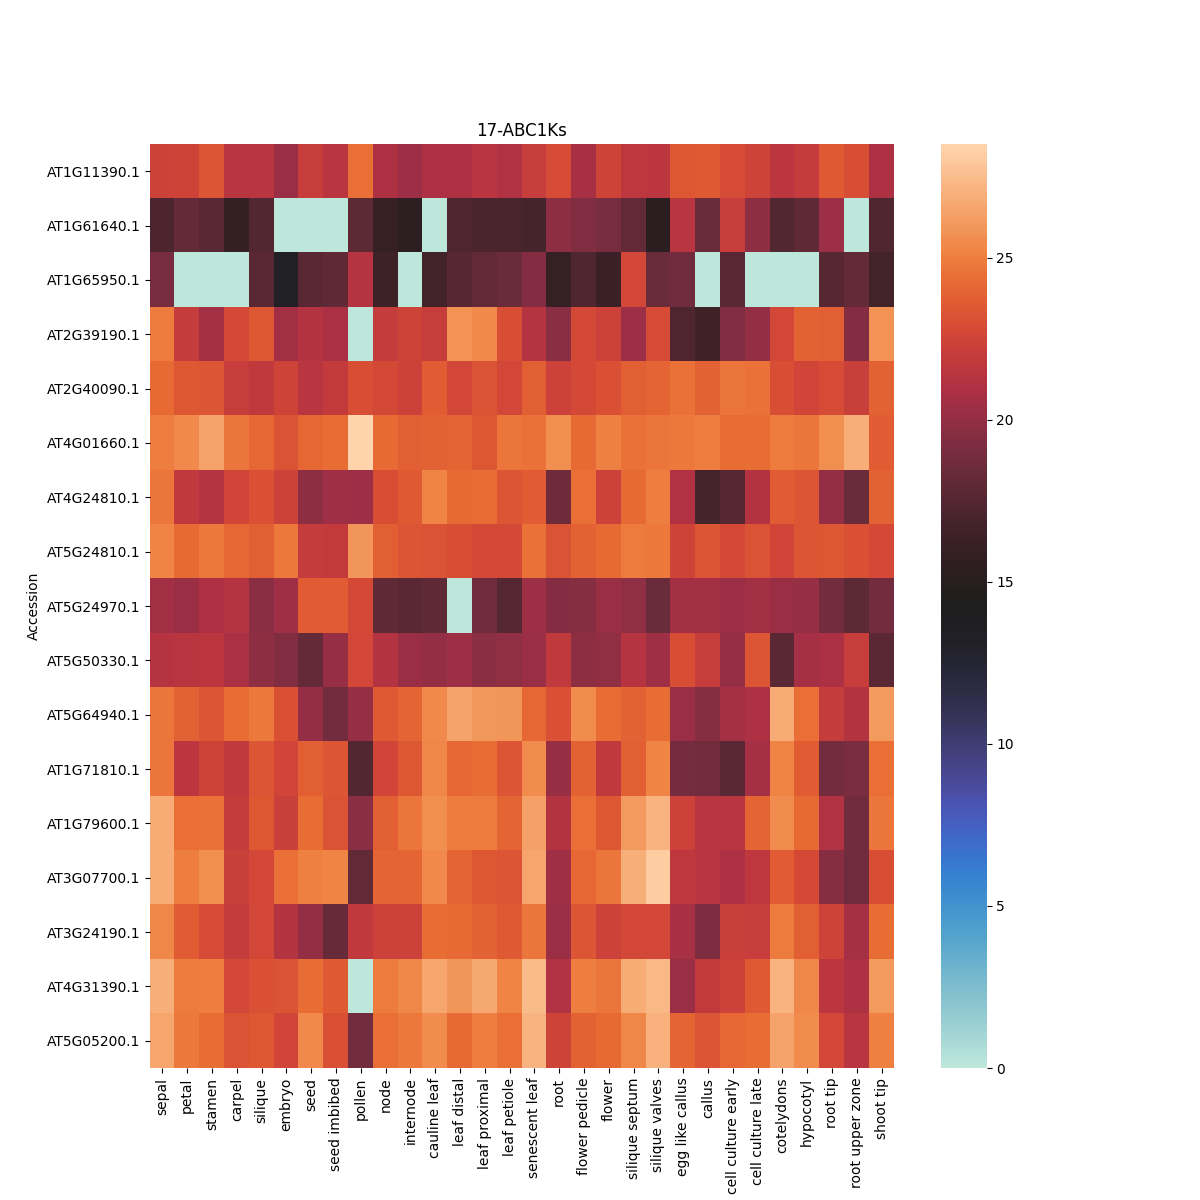
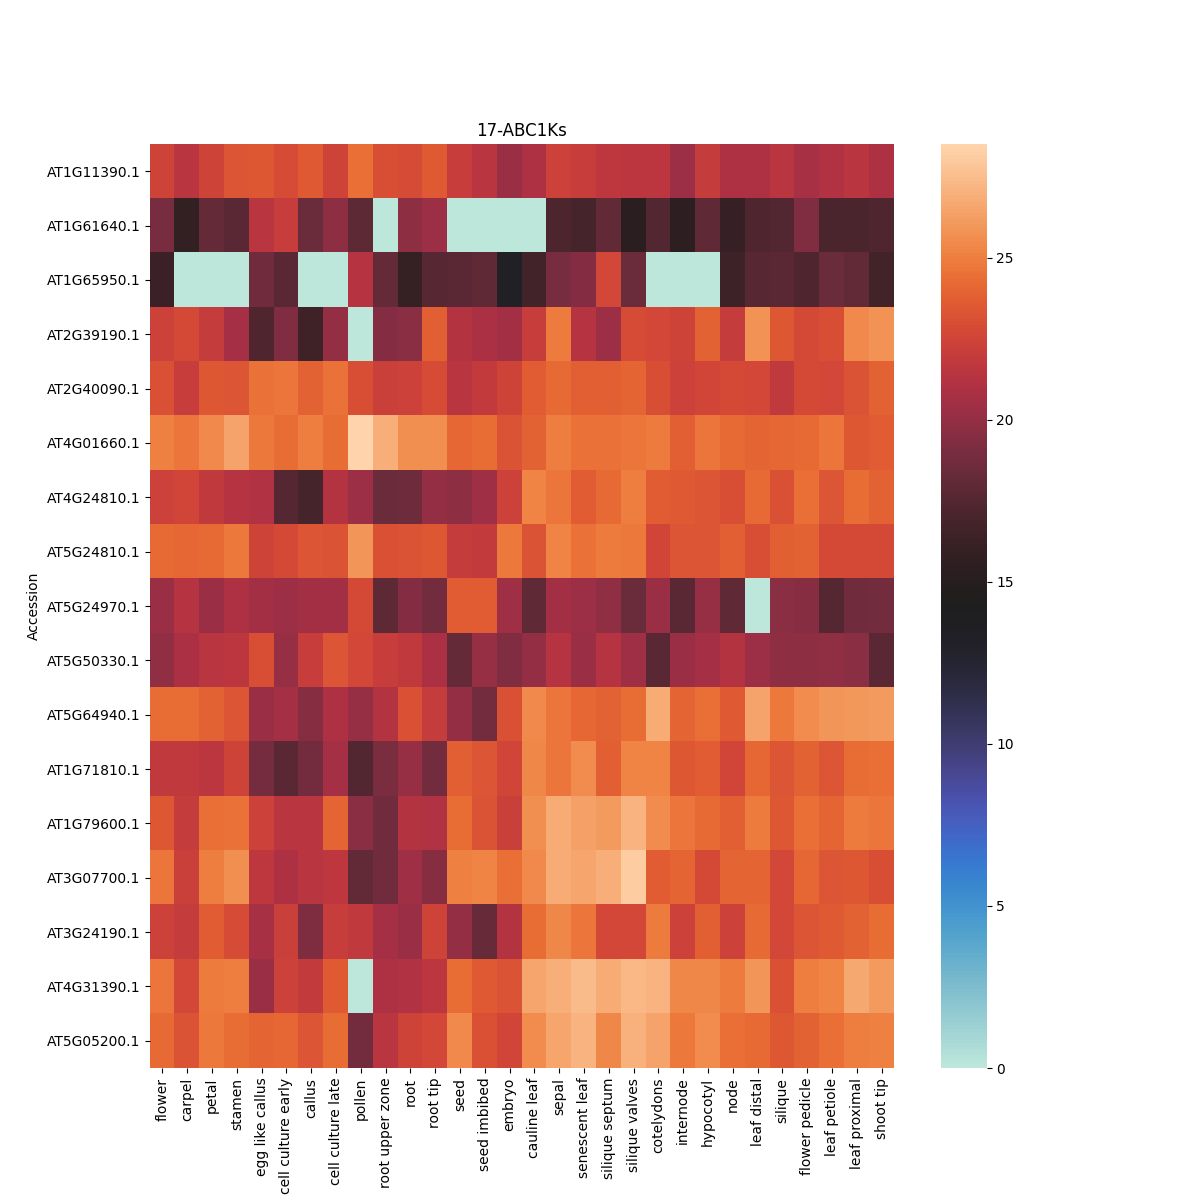
commit

diff --git a/2020-09-21/script.py b/2020-09-21/script.py
@@ -53,6 +53,12 @@ for key in A.keys():
     #     plt.savefig(f"{key}_lines.png")
 
     # plot as heatmap
+    # arrange in order of tissue-based clusters: see "cluster the tissues" in clust.R
+    if key == 'PGs':
+        df = df.loc[:,['root','callus','egg like callus','cell culture early','cell culture late','carpel','silique','flower pedicle','root tip','root upper zone','sepal','stamen','petal','flower','cotelydons','leaf petiole','cauline leaf','shoot tip','leaf distal','leaf proximal','hypocotyl','node','internode','embryo','seed','seed imbibed','pollen','senescent leaf','silique septum','silique valves']]
+    elif key == '17-ABC1Ks':
+        df = df.loc[:,['flower','carpel','petal','stamen','egg like callus','cell culture early','callus','cell culture late','pollen','root upper zone','root','root tip','seed','seed imbibed','embryo','cauline leaf','sepal','senescent leaf','silique septum','silique valves','cotelydons','internode','hypocotyl','node','leaf distal','silique','flower pedicle','leaf petiole','leaf proximal','shoot tip']]
+
     fig,axs = plt.subplots(figsize=(12,12))
     sns.heatmap(df, cmap="icefire", annot=False, ax=axs)
     axs.set_title(key)
